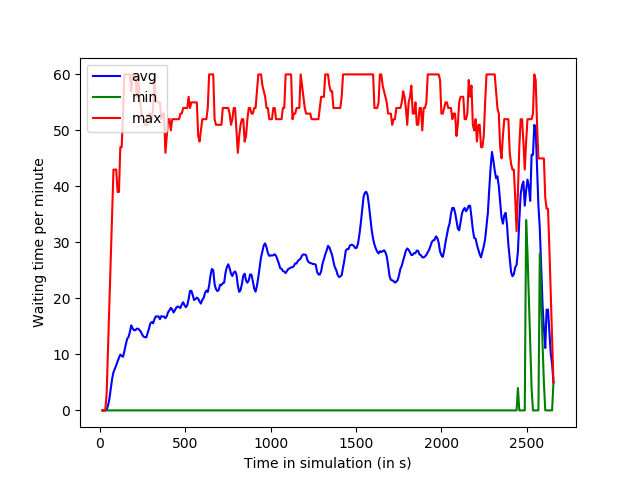
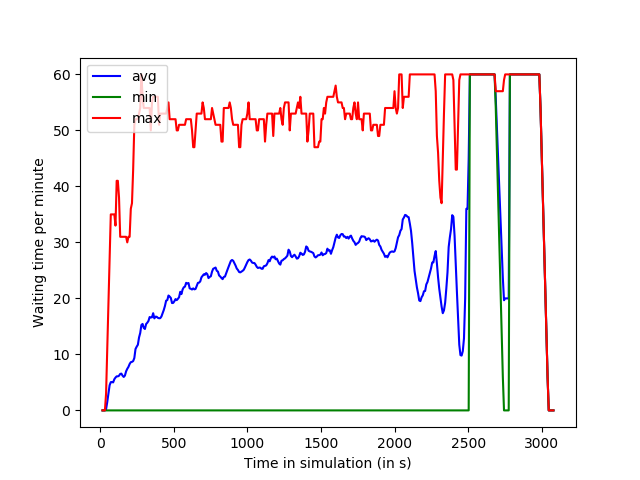
Updates to single intersection scenario

diff --git a/Traffic Modeling Real Vision  Based/single_intersection_test.py b/Traffic Modeling Real Vision  Based/single_intersection_test.py
@@ -515,7 +515,7 @@ AVG_Q_len_perepisode = []
 
 transition_time = 8
 target_update_time = 20
-q_estimator_model = load_model("models/single intersection models/two lane traffic models/two_lane_model_15.h5")
+q_estimator_model = load_model("models/single intersection models/four lane traffic models/four_lane_model_15.h5")
 replay_memory_init_size = 150
 replay_memory_size = 8000
 batch_size = 32
